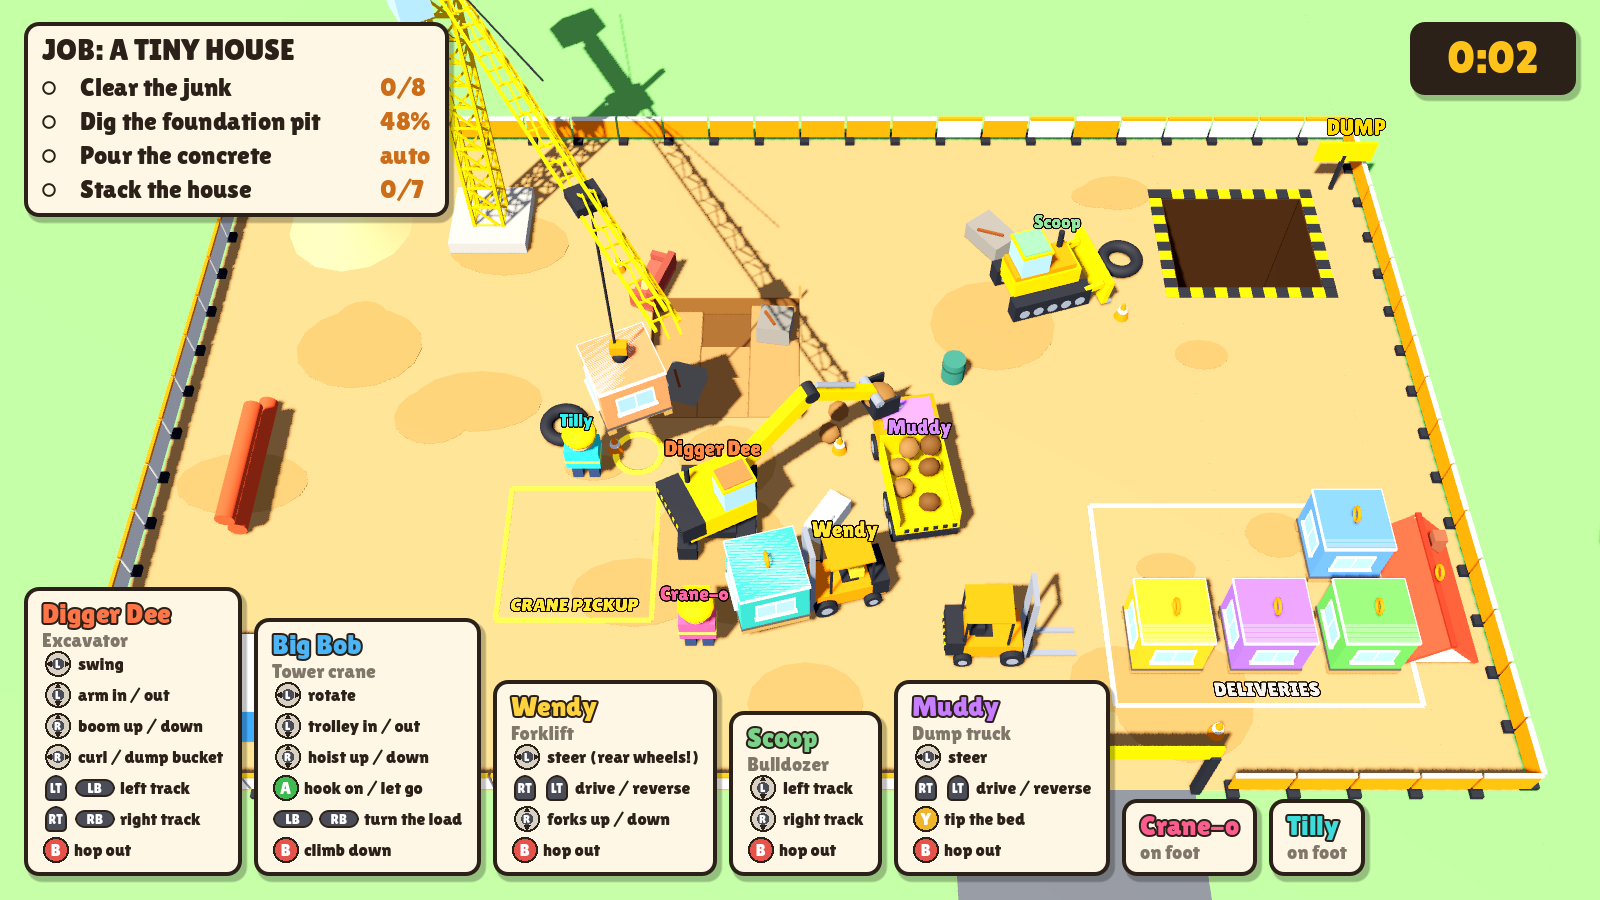
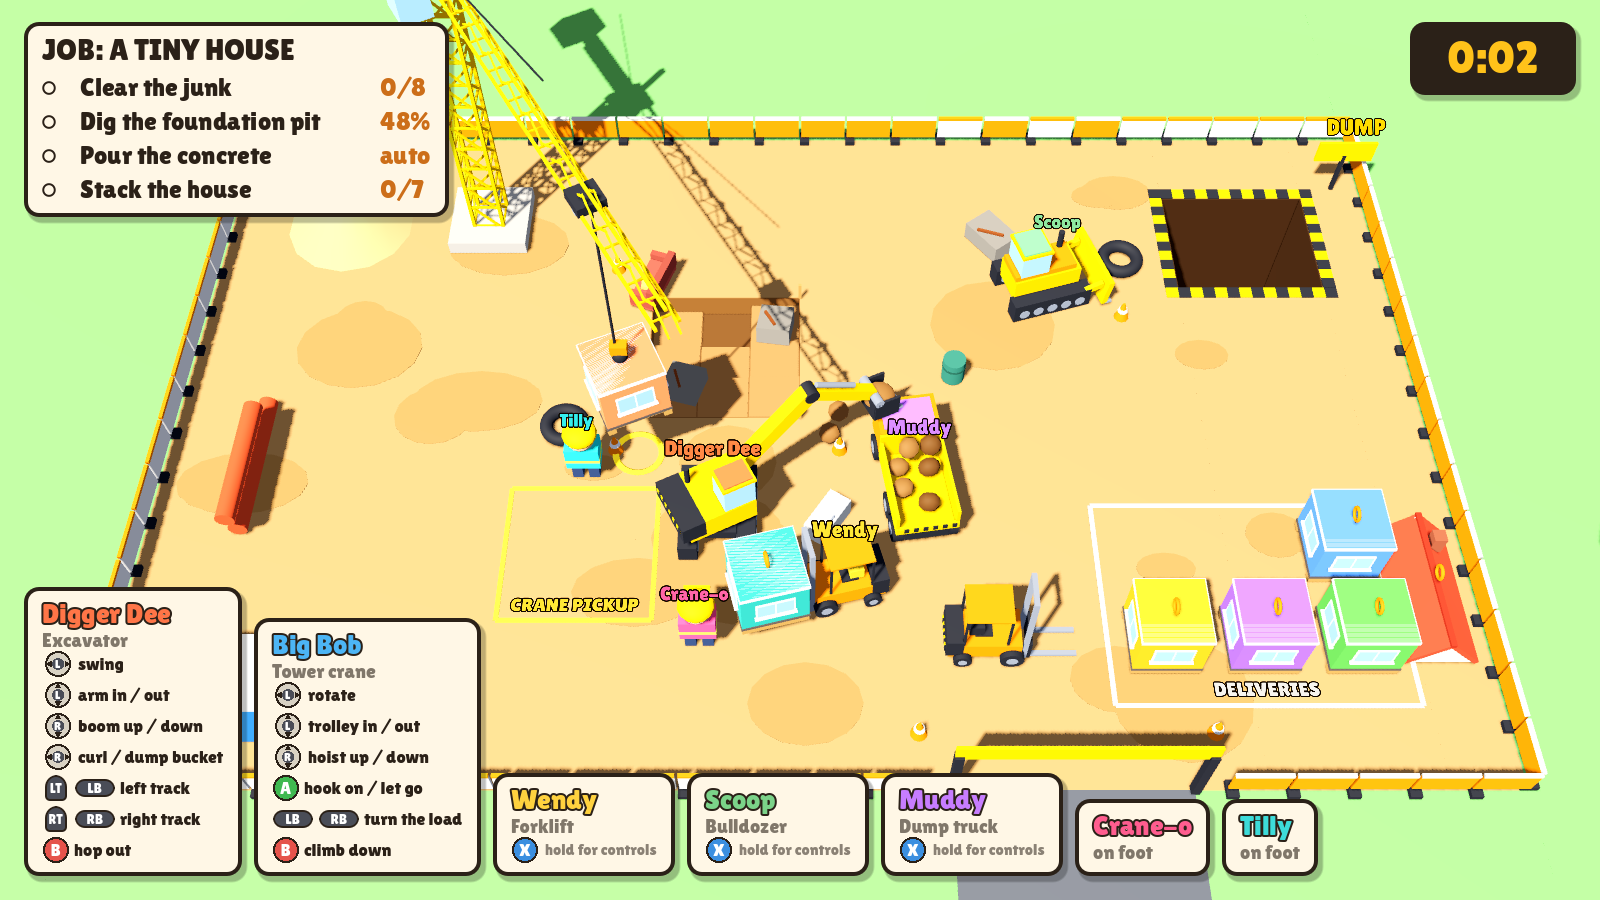
Controls hidden until you hold X; truck tailgate opens when tipping
Player cards show 'X hold for controls' and expand to the pad glyphs while X
is held. The dump truck's tailgate collision drops once the bed is raised,
so a tipped load always slides out (fixes a flaky job check).

Claude-Session: https://claude.ai/code/session_012qGoxj4nUFzQCJ7vE5oWcN

Changed region(s): [[0.2812, 0.7467, 0.875, 0.9956]]

diff --git a/README.md b/README.md
@@ -29,8 +29,8 @@ gives three stars under 8 minutes and two under 12.
 ## Controls
 
 On foot: left stick walks, **A** climbs into the nearest free machine, **B**
-climbs out. Fast machines knock builders over. The player strip shows each
-machine's controls for a few seconds after you climb in.
+climbs out. Fast machines knock builders over. Hold **X** in a machine to
+show its controls in your player card.
 
 | Machine | Controls |
 | --- | --- |
